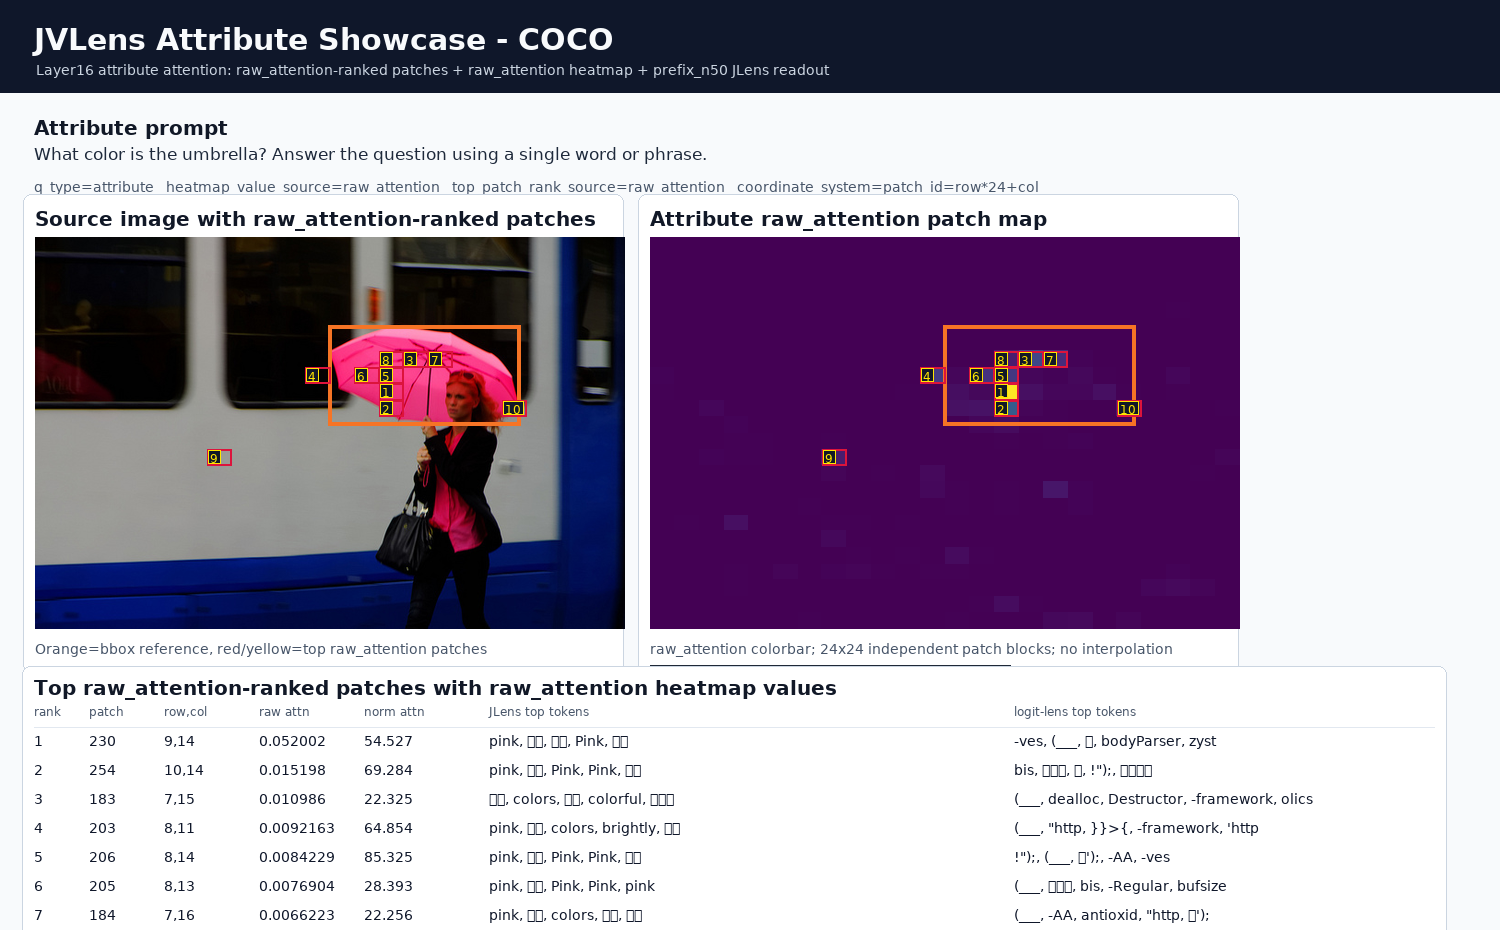
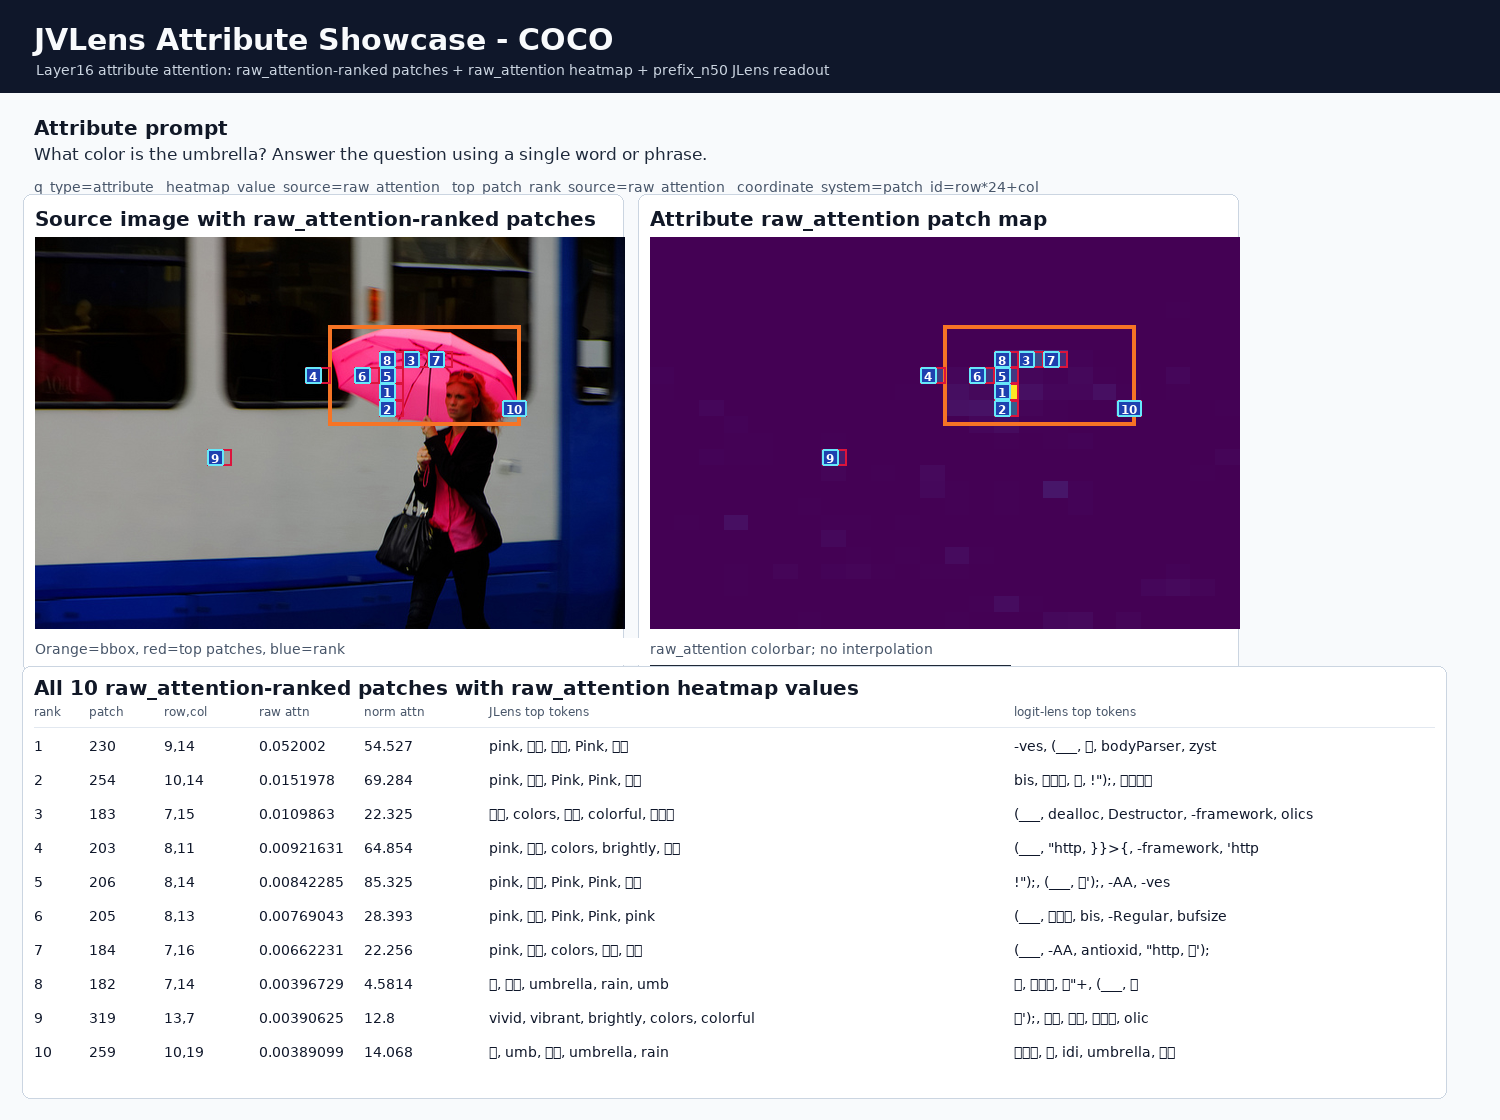
Fix dermoscopy showcase layout

Changed region(s): [[0.0, 0.0, 1.0, 0.9978], [0.552, 0.4677, 0.5827, 0.4989], [0.552, 0.4054, 0.5827, 0.4366]]

diff --git a/tests/test_static_contract.py b/tests/test_static_contract.py
@@ -76,16 +76,25 @@ def main() -> int:
 
     readme = (ROOT / "README.md").read_text(encoding="utf-8")
     assert_ok("raw_attention attribute maps" in readme, "README must describe raw_attention showcase maps")
+    assert_ok("blue badges" in readme, "README must describe non-yellow rank badges")
     showcase_index_path = ROOT / "examples/showcase/showcase_index.json"
     assert_ok(showcase_index_path.is_file(), "missing showcase index")
     showcase_index = json.loads(showcase_index_path.read_text(encoding="utf-8"))
     showcase_samples = showcase_index.get("samples", [])
     assert_ok(len(showcase_samples) == 3, "expected exactly three showcase samples")
+    assert_ok(showcase_index.get("overview_table_visible_rows") == 10, "showcase index must expose all 10 table rows")
+    assert_ok(
+        showcase_index.get("overview_rank_label_style") == "blue_badge_white_text_cyan_outline",
+        "showcase index rank labels must avoid yellow/viridis-high styling",
+    )
     assert_ok(showcase_index.get("attention_prompt_type") == "attribute", "showcase index must use attribute prompts")
     assert_ok(showcase_index.get("attention_value_source") == "raw_attention", "showcase index must use raw_attention")
     assert_ok(showcase_index.get("heatmap_value_source") == "raw_attention", "showcase heatmap must use raw_attention")
     assert_ok(showcase_index.get("colorbar_value_source") == "raw_attention", "showcase colorbar must use raw_attention")
     assert_ok(showcase_index.get("top_patch_rank_source") == "raw_attention", "showcase top patches must preserve raw_attention-ranked image patches")
+    assert_ok(showcase_index.get("overview_canvas_size") == [1500, 1120], "showcase overview canvas must be tall enough for all table rows")
+    assert_ok(showcase_index.get("overview_table_visible_rows") == 10, "showcase overview must expose all 10 table rows")
+    assert_ok(showcase_index.get("overview_rank_label_style") == "blue_badge_white_text_cyan_outline", "showcase rank labels must not use yellow badges")
     index_transform = showcase_index.get("attention_map_transform", {})
     assert_ok(index_transform.get("patch_id_formula") == "patch_id = patch_row * 24 + patch_col", "showcase index patch id formula mismatch")
     assert_ok(index_transform.get("origin") == "top_left", "showcase index origin mismatch")
@@ -101,6 +110,10 @@ def main() -> int:
         assert_ok(sample.get("attention_value_source") == "raw_attention", f"showcase sample must use raw attention: {sample.get('slug')}")
         assert_ok(sample.get("heatmap_value_source") == "raw_attention", f"showcase heatmap must use raw attention: {sample.get('slug')}")
         assert_ok(sample.get("colorbar_value_source") == "raw_attention", f"showcase colorbar must use raw attention: {sample.get('slug')}")
+        assert_ok(sample.get("overview_canvas_size") == [1500, 1120], f"showcase sample canvas mismatch: {sample.get('slug')}")
+        assert_ok(sample.get("overview_table_visible_rows") == 10, f"showcase sample must expose all 10 table rows: {sample.get('slug')}")
+        assert_ok(sample.get("overview_rank_label_style") == "blue_badge_white_text_cyan_outline", f"showcase sample rank label style mismatch: {sample.get('slug')}")
+        assert_ok(sample.get("overview_panel_note_layout") == "short_non_overlapping_panel_notes", f"showcase sample panel notes should be short: {sample.get('slug')}")
         overview_rel = sample["overview_png"]
         metadata_rel = sample["metadata_json"]
         assert_ok(overview_rel in readme, f"README does not reference {overview_rel}")
@@ -109,9 +122,15 @@ def main() -> int:
         assert_ok(overview_path.is_file(), f"missing showcase image {overview_rel}")
         assert_ok(metadata_path.is_file(), f"missing showcase metadata {metadata_rel}")
         with Image.open(overview_path) as image:
-            assert_ok(image.size[0] >= 900 and image.size[1] >= 600, f"showcase image too small: {overview_rel}")
+            assert_ok(image.size == (1500, 1120), f"showcase image size mismatch: {overview_rel}")
             assert_ok(image.format == "PNG", f"showcase image must be PNG: {overview_rel}")
         metadata = json.loads(metadata_path.read_text(encoding="utf-8"))
+        assert_ok(metadata.get("overview_table_visible_rows") == 10, f"showcase table must expose 10 rows: {metadata_rel}")
+        assert_ok(metadata.get("overview_table_no_clipping") is True, f"showcase table must not clip rows: {metadata_rel}")
+        assert_ok(
+            metadata.get("overview_rank_label_style") == "blue_badge_white_text_cyan_outline",
+            f"showcase rank labels must avoid yellow/viridis-high styling: {metadata_rel}",
+        )
         assert_ok(metadata.get("q_type") == "attribute", f"showcase metadata must be attribute: {metadata_rel}")
         assert_ok("__attribute__layer16" in metadata.get("sample_layer_id", ""), f"showcase sample_layer_id must be attribute: {metadata_rel}")
         assert_ok(metadata.get("attention_value_source") == "raw_attention", f"showcase metadata must use raw attention: {metadata_rel}")
@@ -122,6 +141,13 @@ def main() -> int:
         assert_ok(metadata.get("target_layer") == 27, f"showcase target layer mismatch: {metadata_rel}")
         assert_ok(metadata.get("lens") == "prefix_n50", f"showcase lens mismatch: {metadata_rel}")
         assert_ok(metadata.get("raw_source_files_copied") is False, f"showcase should not copy raw source files: {metadata_rel}")
+        assert_ok(metadata.get("overview_canvas_size") == [1500, 1120], f"showcase metadata canvas mismatch: {metadata_rel}")
+        assert_ok(metadata.get("overview_table_visible_rows") == 10, f"showcase metadata must expose all table rows: {metadata_rel}")
+        assert_ok(metadata.get("overview_table_rows_available") == list(range(1, 11)), f"showcase metadata table rows mismatch: {metadata_rel}")
+        assert_ok(len(metadata.get("overview_table_patch_ids_available", [])) == 10, f"showcase metadata table patch count mismatch: {metadata_rel}")
+        assert_ok(metadata.get("overview_table_no_clipping") is True, f"showcase metadata must mark table as unclipped: {metadata_rel}")
+        assert_ok(metadata.get("overview_rank_label_style") == "blue_badge_white_text_cyan_outline", f"showcase rank label style mismatch: {metadata_rel}")
+        assert_ok(metadata.get("overview_panel_note_layout") == "short_non_overlapping_panel_notes", f"showcase panel note layout mismatch: {metadata_rel}")
         transform = metadata.get("attention_map_transform", {})
         assert_ok(transform.get("patch_id_formula") == "patch_id = patch_row * 24 + patch_col", f"showcase patch id formula mismatch: {metadata_rel}")
         assert_ok(transform.get("origin") == "top_left", f"showcase heatmap origin mismatch: {metadata_rel}")
@@ -135,6 +161,25 @@ def main() -> int:
         assert_ok(all(isinstance(row, list) and len(row) == 24 for row in heatmap_matrix), f"showcase heatmap matrix must be 24x24: {metadata_rel}")
         top_patches = metadata.get("top_patches", [])
         assert_ok(len(top_patches) == 10, f"showcase top patch count mismatch: {metadata_rel}")
+        assert_ok(
+            metadata.get("overview_table_patch_ids_available") == [patch["patch_id"] for patch in top_patches],
+            f"showcase visible table patch ids must match top patch list: {metadata_rel}",
+        )
+        matrix_top10 = sorted(
+            (
+                {
+                    "patch_id": row_idx * 24 + col_idx,
+                    "raw_attention": value,
+                }
+                for row_idx, row in enumerate(heatmap_matrix)
+                for col_idx, value in enumerate(row)
+            ),
+            key=lambda item: (-float(item["raw_attention"]), int(item["patch_id"])),
+        )[:10]
+        assert_ok(
+            [item["patch_id"] for item in matrix_top10] == [patch["patch_id"] for patch in top_patches],
+            f"showcase raw top10 must equal matrix global top10: {metadata_rel}",
+        )
         assert_ok(abs(top_patches[0]["raw_attention"] - metadata.get("heatmap_display_max")) < 1e-12, f"raw rank1 patch must equal raw heatmap max: {metadata_rel}")
         assert_ok(top_patches[0]["patch_id"] == metadata.get("heatmap_display_max_patch_id"), f"raw rank1 patch id must equal raw heatmap max patch id: {metadata_rel}")
         previous_raw = None
@@ -156,6 +201,21 @@ def main() -> int:
             if previous_raw is not None:
                 assert_ok(previous_raw >= patch["raw_attention"], f"showcase raw attention must be descending: {metadata_rel}")
             previous_raw = patch["raw_attention"]
+        if sample.get("slug") == "dermoscopy_skin_lesion_layer16":
+            dermoscopy_patch_ids = [patch["patch_id"] for patch in top_patches]
+            assert_ok(dermoscopy_patch_ids == [252, 275, 253, 323, 322, 375, 299, 484, 324, 539], "dermoscopy raw top10 patch ids changed")
+            assert_ok(484 in metadata.get("overview_table_patch_ids_available", []), "dermoscopy rank8 patch484 must be table-visible")
+            assert_ok(539 in metadata.get("overview_table_patch_ids_available", []), "dermoscopy rank10 patch539 must be table-visible")
+            dermoscopy_fix = metadata.get("dermoscopy_layout_fix_evidence", {})
+            assert_ok(dermoscopy_fix.get("raw_top10_complete") is True, "dermoscopy fix must state raw top10 completeness")
+            assert_ok(dermoscopy_fix.get("rank8_patch", {}).get("patch_id") == 484, "dermoscopy rank8 patch must remain 484")
+            assert_ok(dermoscopy_fix.get("rank8_patch", {}).get("patch_row") == 20, "dermoscopy rank8 row must remain 20")
+            assert_ok(dermoscopy_fix.get("rank8_patch", {}).get("patch_col") == 4, "dermoscopy rank8 col must remain 4")
+            assert_ok(abs(dermoscopy_fix.get("rank8_patch", {}).get("raw_attention") - 0.001220703125) < 1e-12, "dermoscopy rank8 raw attention mismatch")
+            assert_ok(dermoscopy_fix.get("rank10_patch", {}).get("patch_id") == 539, "dermoscopy rank10 patch must remain 539")
+            assert_ok(dermoscopy_fix.get("rank10_patch", {}).get("patch_row") == 22, "dermoscopy rank10 row must remain 22")
+            assert_ok(dermoscopy_fix.get("rank10_patch", {}).get("patch_col") == 11, "dermoscopy rank10 col must remain 11")
+            assert_ok(abs(dermoscopy_fix.get("rank10_patch", {}).get("raw_attention") - 0.000946044921875) < 1e-12, "dermoscopy rank10 raw attention mismatch")
 
     forbidden = [
         "/" + "cpfs01",

diff --git a/README.md b/README.md
@@ -9,7 +9,7 @@ This staging package is prepared for review. It contains source code, documentat
 
 ## Showcase Examples
 
-These review images are sanitized static overviews copied from validated layer16 VG/JLens alignment outputs. They use attribute prompts, raw_attention attribute maps, and raw_attention-ranked top patches rendered in the same patch coordinate system; they embed only a small screenshot-style PNG per case, not standalone source images or datasets.
+These review images are sanitized static overviews copied from validated layer16 VG/JLens alignment outputs. They use attribute prompts, raw_attention attribute maps, and raw_attention-ranked top patches rendered in the same patch coordinate system; they embed only a small screenshot-style PNG per case, not standalone source images or datasets. The numbered patch ranks use blue badges so they are visually distinct from the viridis attention colors.
 
 ### COCO
 